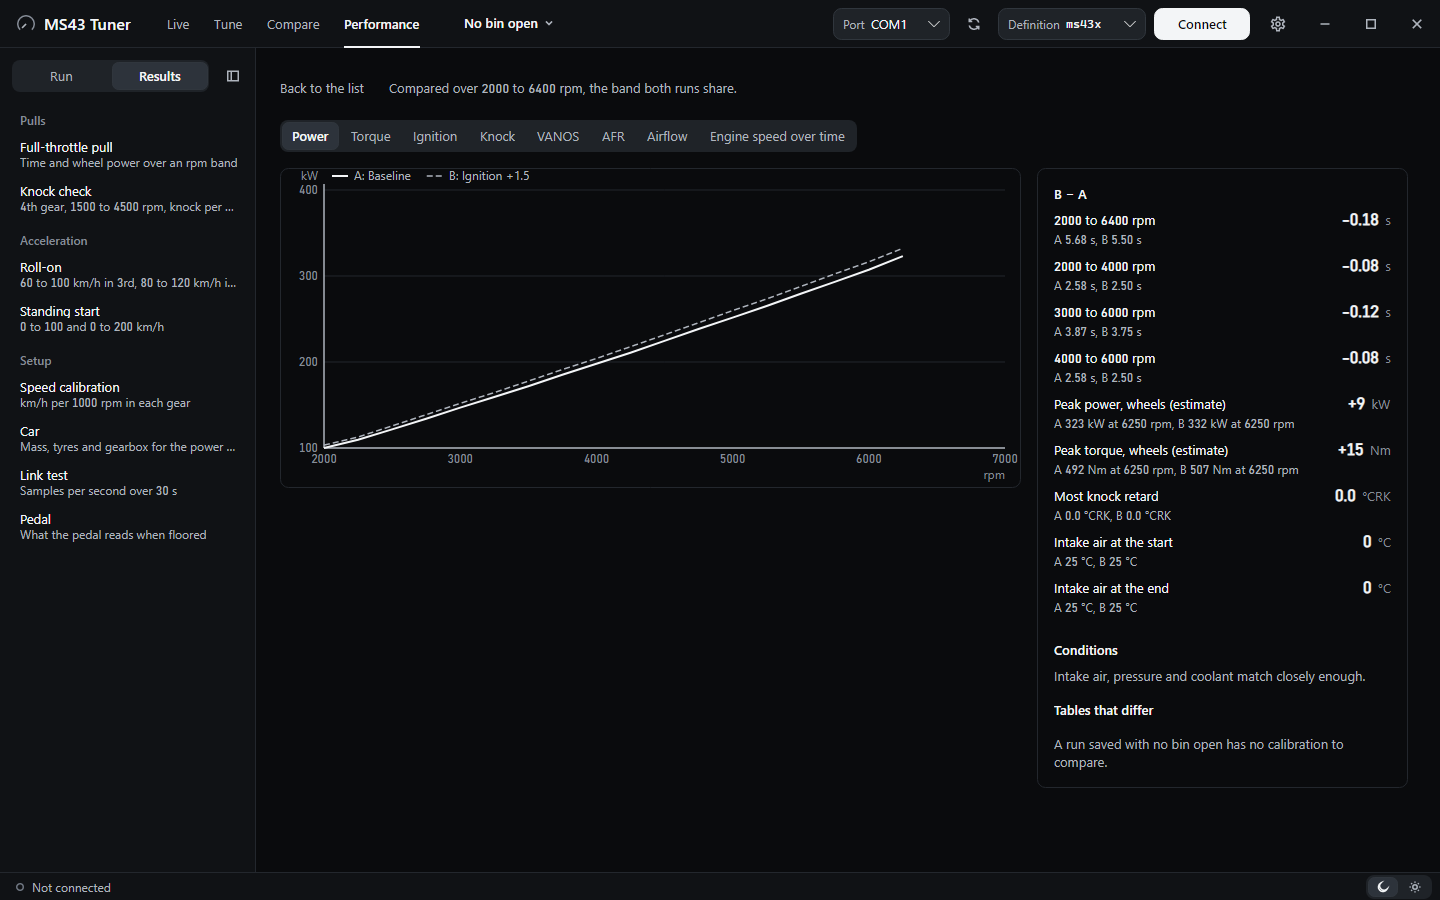
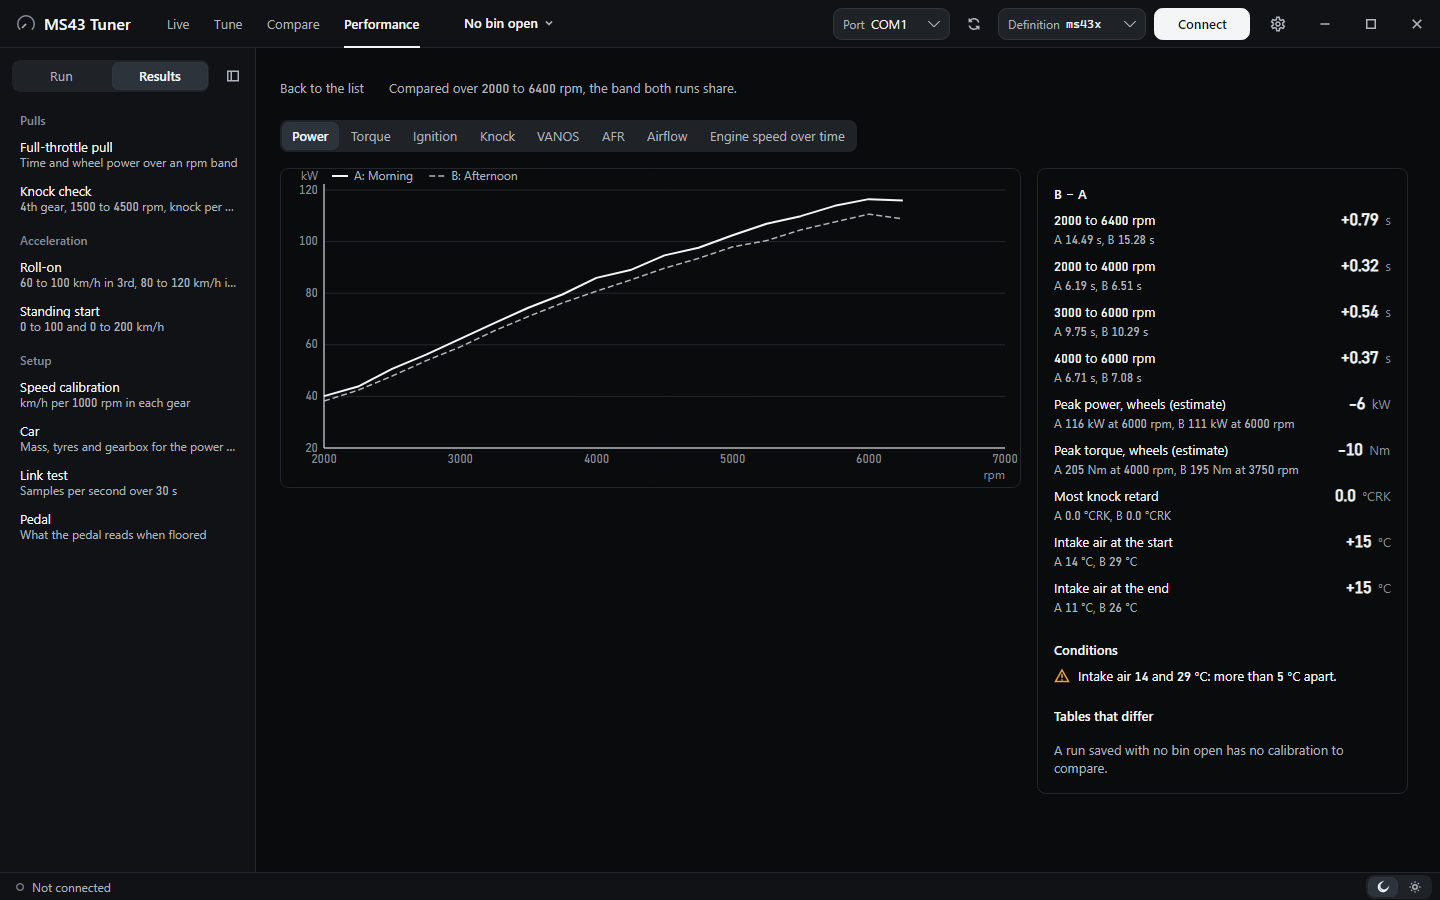
docs(readme): introduce the tuner and label simulated run screenshots

diff --git a/README.md b/README.md
@@ -1,18 +1,29 @@
+<div align="center">
+
+<img src="docs/assets/ms43-tuner.png" width="112" alt="MS43 Tuner icon: a gauge with an orange needle">
+
 # MS43 Tuner
 
-Live logging, map editing, bin compare and road performance tests for the Siemens MS43 ECU in the BMW E46.
+**Live logging, map editing, bin compare and road performance tests for the Siemens MS43 ECU.**
 
-[![CI](https://github.com/raph559/MS43_LOGGER/actions/workflows/ci.yml/badge.svg)](https://github.com/raph559/MS43_LOGGER/actions/workflows/ci.yml)
+A Windows desktop app, with a command-line tool next to it, for BMW's M54B22, M54B25 and M54B30 engines,<br>
+on stock MS430069-family software or on MS43X001, the community firmware from the MS4X project.
+
+[![CI](https://github.com/raph559/MS43_TUNER/actions/workflows/ci.yml/badge.svg)](https://github.com/raph559/MS43_TUNER/actions/workflows/ci.yml)
 [![License: GPL-3.0-only](https://img.shields.io/badge/license-GPL--3.0--only-blue.svg)](LICENSE)
 [![.NET 10](https://img.shields.io/badge/.NET-10-512BD4.svg)](https://dotnet.microsoft.com/)
-[![Platform: Windows](https://img.shields.io/badge/platform-Windows%2010%20%7C%2011%20x64-0078D6.svg)](#requirements)
+[![Platform: Windows](https://img.shields.io/badge/platform-Windows%2010%20%7C%2011%20x64-0078D6.svg)](#what-you-need)
 
-![The Tune tab: the RON98 part-load ignition map as a colour grid, with edit tools above it and a 3D surface preview on the right](docs/screenshots/tune-map.png)
+[What it does](#what-it-does) · [What you need](#what-you-need) · [Install](#install) · [First steps](#first-steps) · [Command line](#command-line-tool) · [Build and test](#build-and-test)
+
+</div>
+
+<br>
+
+<img src="docs/screenshots/tune-map.png" alt="The Tune tab: the RON98 part-load ignition map as a colour grid, with edit tools above it and a 3D surface preview on the right">
 
 > [!WARNING]
 > MS43 Tuner never writes ECU flash. It saves edited bin files on your PC, and you flash them yourself with MS4X Flasher, which also corrects the checksum. Wheel power is an estimate, not a dyno figure. Run performance tests only on a closed road or a track.
-
-MS43 Tuner is a Windows desktop app, with a command-line tool next to it, for E46 cars with the Siemens MS43 engine ECU (M54B22, M54B25, M54B30). It works with stock MS430069-family software and with MS43X001, the community firmware from the MS4X project. It logs live data over DS2 on the K-line, reads and edits bins through TunerPro XDF definitions, compares two bins, and times pulls, roll-ons and standing starts from the same data stream.
 
 ## What it does
 
@@ -20,11 +31,7 @@ The window has four tabs: Live, Tune, Compare and Performance. There are Night a
 
 ### Live
 
-- Connects through a K+DCAN USB cable and polls the MS4X logging command, using the bundled definition for your engine or firmware.
-- Shows the main values as large tiles or dials, a row of pinned channels, and every channel in a list with a sparkline of the last 10, 30 or 60 seconds. Filter the list by name or ID with Ctrl K.
-- Reads the rev limit from the open bin and marks it on the rpm readout.
-- Writes a CSV log, on demand or as soon as you connect. The header shows the measured samples per second.
-- Warns in red while the coolant is cold and in amber until the oil is warm.
+Watch the engine over DS2 on the K-line, and keep a CSV log of it.
 
 <table>
   <tr>
@@ -32,12 +39,25 @@ The window has four tabs: Live, Tune, Compare and Performance. There are Night a
     <td width="50%"><img src="docs/screenshots/live-dials-day.png" alt="Live tab in the Day theme with the main readouts drawn as dials"></td>
   </tr>
   <tr>
-    <td align="center"><sub>Live, Night theme, tiles</sub></td>
-    <td align="center"><sub>Live, Day theme, dials</sub></td>
+    <td align="center"><sub>Night theme, tiles</sub></td>
+    <td align="center"><sub>Day theme, dials</sub></td>
   </tr>
 </table>
 
+- Connects through a K+DCAN USB cable and polls the MS4X logging command, using the bundled definition for your engine or firmware.
+- Shows the main values as large tiles or dials, a row of pinned channels, and every channel in a list with a sparkline of the last 10, 30 or 60 seconds. Filter the list by name or ID with Ctrl K.
+- Reads the rev limit from the open bin and marks it on the rpm readout.
+- Writes a CSV log, on demand or as soon as you connect. The header shows the measured samples per second.
+- Warns in red while the coolant is cold and in amber until the oil is warm.
+
 ### Tune
+
+Open a bin with its TunerPro XDF and edit it, as a grid (the picture at the top of this page) or as a surface.
+
+<p align="center">
+  <img src="docs/screenshots/surface.png" width="72%" alt="The ignition map as an editable 3D surface with rpm, load and angle scales"><br>
+  <sub>The ignition map as a 3D surface</sub>
+</p>
 
 - Opens a 512 KiB bin with a TunerPro XDF, reads the firmware ID from the bin, and remembers which XDF goes with which firmware.
 - Lists every XDF item in a rail by category, with search, recent items, pins and a "Changed only" filter.
@@ -48,23 +68,34 @@ The window has four tabs: Live, Tune, Compare and Performance. There are Night a
 
 ### Compare
 
+Put a second bin next to yours and see every value that differs.
+
+<p align="center">
+  <img src="docs/screenshots/compare.png" width="72%" alt="Compare tab: the difference B minus A for the ignition map, cell by cell, with the items that differ listed on the left"><br>
+  <sub>B − A for the ignition map, in units</sub>
+</p>
+
 - Opens a second bin (B) against the one you are tuning (A) and lists only the items that differ, with how many cells differ in each.
 - Shows B − A in units, raw counts or percent, or either file on its own, with a colour scale for where B is higher or lower.
 - Copies cells or whole items from B into A. The copy is an ordinary edit: undo it, or save A as usual.
 - Lists the bytes that differ outside every XDF item, so nothing is hidden.
 
+### Performance
+
+Time pulls, roll-ons and standing starts from the same data stream.
+
 <table>
   <tr>
-    <td width="50%"><img src="docs/screenshots/surface.png" alt="The ignition map as an editable 3D surface with rpm, load and angle scales"></td>
-    <td width="50%"><img src="docs/screenshots/compare.png" alt="Compare tab: the difference B minus A for the ignition map, cell by cell, with the items that differ listed on the left"></td>
+    <td width="50%"><img src="docs/screenshots/performance-run.png" alt="A third-gear pull in progress at 5005 rpm after 9.9 seconds, against a saved morning run, with knock retard per cylinder and the live ignition, VANOS, AFR target and intake air"></td>
+    <td width="50%"><img src="docs/screenshots/performance-compare.png" alt="Two saved pulls compared: the morning run peaks at 116 kW at the wheels and the afternoon run, with 15 °C warmer intake air, at 111 kW"></td>
   </tr>
   <tr>
-    <td align="center"><sub>Tune, 3D surface</sub></td>
-    <td align="center"><sub>Compare, B − A in units</sub></td>
+    <td align="center"><sub>A pull in progress</sub></td>
+    <td align="center"><sub>Two saved runs compared</sub></td>
   </tr>
 </table>
 
-### Performance
+<sub>Both runs are simulated: a stock M54B25 in 3rd, its rise worked out from BMW's torque figures, with the engine readings following a real car's map and log.</sub>
 
 - Full-throttle pull in 2nd, 3rd or 4th over an rpm band: times across the band, estimated wheel power and torque, knock retard per cylinder, intake air temperature at the start and the end.
 - Knock check in 4th gear, roll-ons from 60 to 100 and 80 to 120 km/h, and standing starts with 0 to 100, 0 to 200 and 100 to 200 km/h times.
@@ -72,97 +103,59 @@ The window has four tabs: Live, Tune, Compare and Performance. There are Night a
 - Red coolant and amber oil warm-up warnings before you floor it.
 - Saves each run with a name and a description. Pick two saved runs to compare them with overlaid power, torque, ignition, knock, VANOS and AFR curves, the difference in each figure, and the conditions side by side. Both runs are recomputed with your current car values, so a change of tyres or mass does not show up as a gain.
 
-<table>
-  <tr>
-    <td width="50%"><img src="docs/screenshots/performance-run.png" alt="A third-gear pull in progress: current rpm, elapsed time, knock retard per cylinder, and the run plotted against a saved baseline"></td>
-    <td width="50%"><img src="docs/screenshots/performance-compare.png" alt="Two saved pulls compared: overlaid power curves and the difference in times, power, torque and knock"></td>
-  </tr>
-  <tr>
-    <td align="center"><sub>Performance, a pull in progress</sub></td>
-    <td align="center"><sub>Performance, two saved runs compared</sub></td>
-  </tr>
-</table>
+## What you need
 
-The Performance screenshots come from a synthetic test run, so their power figures are not from a real car.
+| For | You need |
+|:---|:---|
+| **PC** | Windows 10 or 11, x64 |
+| **Cable** | A K+DCAN USB cable, or another K-line interface that holds 125000 baud reliably, set up as a COM port |
+| **Car** | A BMW with the Siemens MS43 ECU (M54B22, M54B25 or M54B30 engine) |
+| **ECU software** | MS43X001, or stock MS430069-family software with the MS4X extended logging patch: logging uses the MS4X logging command (`0B B0`) |
+| **Flashing** | MS4X Flasher, to flash the bins you edit |
+| **Building** | The .NET 10 SDK, only to build from source |
 
-## Requirements
+MS43 Tuner is developed on one car, an E46 M54B25 running MS43X001. The B22, B25 and B30 logging definitions for stock software come from MS4X; reports from other cars and engines are welcome.
 
-- Windows 10 or 11, x64.
-- A K+DCAN USB cable, or another K-line interface that holds 125000 baud reliably, set up as a COM port.
-- A BMW E46 with the Siemens MS43 ECU (M54B22, M54B25 or M54B30). Logging uses the MS4X logging command (`0B B0`), so the ECU needs MS43X001 or stock MS430069-family software with the MS4X extended logging patch.
-- MS4X Flasher, to flash the bins you edit.
-- To build from source: the .NET 10 SDK.
+## Install
 
-MS43 Tuner is developed on one car, an E46 M54B25 running MS43X001. The B22, B25 and B30 logging definitions for stock software come from MS4X; reports from cars running them are welcome.
+Nothing has been released yet. Releases will appear on the [Releases](https://github.com/raph559/MS43_TUNER/releases) page, each with two zips for win-x64: `MS43Tuner-<version>-win-x64.zip` with the desktop app and `MS43Tuner-CLI-<version>-win-x64.zip` with the command-line tool. Both will be self-contained single-file builds, so you will not need to install .NET: unzip and run `MS43Logger.AvaloniaApp.exe`. The builds are not code-signed, so Windows SmartScreen may ask before the first start.
 
-## Download and install
-
-Nothing has been released yet. Releases will appear on the [Releases](https://github.com/raph559/MS43_LOGGER/releases) page. Each one will have two zips for win-x64: `MS43Tuner-<version>-win-x64.zip` with the desktop app and `MS43Tuner-CLI-<version>-win-x64.zip` with the command-line tool. Both are self-contained single-file builds, so you will not need to install .NET: unzip and run `MS43Logger.AvaloniaApp.exe`. The builds are not code-signed, so Windows SmartScreen may ask before the first start.
-
-Until then, build it from source.
-
-### Build from source
+Until then, build it from source:
 
 ```powershell
-git clone https://github.com/raph559/MS43_LOGGER.git
-cd MS43_LOGGER
+git clone https://github.com/raph559/MS43_TUNER.git
+cd MS43_TUNER
 dotnet build MS43Logger.sln
 dotnet run --project src/MS43Logger.AvaloniaApp
 ```
 
-## Quick start
+## First steps
 
-### Connect and log
+**Connect and log**
 
 1. Plug in the cable and switch the ignition on.
 2. On the Live tab, pick the port and the definition: `b22`, `b25` or `b30` for stock software on that engine, `ms43x` for MS43X001. Click Connect.
 3. If the ECU refuses the faster baud rate while the engine runs, connect first, then start the engine.
 4. Click Write CSV log, or turn on "Start writing the CSV log when connected" in Settings (the gear icon). Logs go to `Documents\MS43 Logs` unless you choose another folder in Settings.
 
-### Open a bin and its XDF
+**Open a bin and its XDF**
 
 1. On the Tune tab, choose Open bin… and pick the 512 KiB file you flash with MS4X Flasher.
 2. The first time, the app asks for the XDF. Later, the XDF you last used for that firmware opens with the bin.
 3. Pick a map, curve or value in the rail, edit it, then Save. Flash the saved bin with MS4X Flasher.
 
-### Compare two bins
+**Compare two bins**
 
 1. With a bin open, go to Compare, choose Open B… and pick the bin to compare with. The open bin is A, and its XDF is used for both files.
 2. Pick an item from the list of differences. Switch between B − A, A and B, and between units, raw and percent.
 3. Use Copy B into A to take values from B, or Edit in Tune to jump to the item.
 
-### Run a pull
+**Run a pull**
 
 1. Go to a closed road or a track, and let the engine warm up until the warnings clear.
 2. In Performance, fill in Car (mass, tyres, gearbox) once, and run Speed calibration for the gears you will use.
 3. Pick Full-throttle pull, the gear and the rpm band, then Arm pull. Floor it once every check is met: the run starts by itself. Lifting off, braking, pressing the clutch or changing gear ends it, marked incomplete.
 4. Save the result with a name and a description. Under Results, tick two runs and click Compare.
-
-## Definitions and credits
-
-The logging definitions in [`definitions/`](definitions) are by the MS4x Dev Team and are embedded in the app with credit:
-
-| File | Variant |
-|---|---|
-| `Siemens_MS43_Extended_Log_v2.9_M54B22.adx` | `b22` |
-| `Siemens_MS43_Extended_Log_v2.9_M54B25.adx` | `b25` |
-| `Siemens_MS43_Extended_Log_v2.9_M54B30.adx` | `b30` |
-| `Siemens_MS43_MS43X001_Logging.adx` | `ms43x` |
-
-These files have no stated license and are not covered by this project's license. Permission from MS4X is being requested, and the files will be removed if MS4X asks. [NOTICE.md](NOTICE.md) has the details and the third-party packages the app uses.
-
-The MS43X001 map definition (the `Siemens_MS43_MS43X001_512K` XDF by the MS4x Dev Team: 1479 tables, 2293 constants, `BASEOFFSET` 0x70000) is not in this repository, because it has no stated license either. Get it from the [MS4X project](https://www.ms4x.net) and open it in the app. Tune and Compare read TunerPro XDF files and are tested with this one. The live cursor's rules ([`definitions/ms43x001_map_use.json`](definitions/ms43x001_map_use.json) and [`definitions/ms43x001_live_inputs.json`](definitions/ms43x001_live_inputs.json)) are written for MS43X001 only; the firmware notes behind them are in [`docs/firmware/map-use`](docs/firmware/map-use).
-
-Bins are never committed. Keep your own bins and XDF out of issues and pull requests.
-
-Sources for the logger:
-
-- [MS4X Logger Definition Files](https://www.ms4x.net/index.php?title=Logger_Definition_Files)
-- [MS4X TunerPro Data Logging](https://www.ms4x.net/index.php?title=TunerPro_Data_Logging)
-- [MS4X Logger.S](https://www.ms4x.net/index.php?title=Logger.S)
-- [handmade0octopus/ds2](https://github.com/handmade0octopus/ds2)
-
-The app is built with [Avalonia](https://avaloniaui.net/) and tested with [xUnit](https://xunit.net/).
 
 ## Command-line tool
 
@@ -191,6 +184,9 @@ MS43Logger.Cli.exe diff A.bin B.bin --xdf Siemens_MS43_MS43X001_512K.xdf
 
 `show` and `diff` warn when the XDF does not match a bin's firmware. When `show` does not find an item, it suggests up to five item names that contain what you typed.
 
+<details>
+<summary>All logging options</summary>
+
 | Option | Meaning |
 |---|---|
 | `--port COMx` | Serial port of the K-line cable. Required unless you only list channels. |
@@ -205,7 +201,9 @@ MS43Logger.Cli.exe diff A.bin B.bin --xdf Siemens_MS43_MS43X001_512K.xdf
 | `--no-console` | Do not print the live line. |
 | `--help` | Show the help text. |
 
-## Building and testing
+</details>
+
+## Build and test
 
 ```powershell
 dotnet build MS43Logger.sln
@@ -222,7 +220,8 @@ powershell -ExecutionPolicy Bypass -File scripts/Publish-Windows.ps1
 
 This publishes the desktop app and the CLI as self-contained single-file win-x64 builds into `artifacts/publish/win-x64/desktop` and `artifacts/publish/win-x64/cli`.
 
-## Project layout
+<details>
+<summary>Project layout</summary>
 
 ```text
 src/MS43Logger.Core/                DS2 session, ADX decoding, XDF reader, bin editing and compare, performance maths
@@ -238,6 +237,34 @@ scripts/                            release packaging and the live-inputs genera
 ```
 
 Settings and saved performance results live in `%AppData%\MS43Tuner`.
+
+</details>
+
+## Definitions and credits
+
+The logging definitions in [`definitions/`](definitions) are by the MS4x Dev Team and are embedded in the app with credit:
+
+| File | Variant |
+|---|---|
+| `Siemens_MS43_Extended_Log_v2.9_M54B22.adx` | `b22` |
+| `Siemens_MS43_Extended_Log_v2.9_M54B25.adx` | `b25` |
+| `Siemens_MS43_Extended_Log_v2.9_M54B30.adx` | `b30` |
+| `Siemens_MS43_MS43X001_Logging.adx` | `ms43x` |
+
+These files have no stated license and are not covered by this project's license. Permission from MS4X is being requested, and the files will be removed if MS4X asks. [NOTICE.md](NOTICE.md) has the details and the third-party packages the app uses.
+
+The MS43X001 map definition (the `Siemens_MS43_MS43X001_512K` XDF by the MS4x Dev Team: 1479 tables, 2293 constants, `BASEOFFSET` 0x70000) is not in this repository, because it has no stated license either. Get it from the [MS4X project](https://www.ms4x.net) and open it in the app. Tune and Compare read TunerPro XDF files and are tested with this one. The live cursor's rules ([`definitions/ms43x001_map_use.json`](definitions/ms43x001_map_use.json) and [`definitions/ms43x001_live_inputs.json`](definitions/ms43x001_live_inputs.json)) are written for MS43X001 only; the firmware notes behind them are in [`docs/firmware/map-use`](docs/firmware/map-use).
+
+Bins are never committed. Keep your own bins and XDF out of issues and pull requests.
+
+Sources for the logger:
+
+- [MS4X Logger Definition Files](https://www.ms4x.net/index.php?title=Logger_Definition_Files)
+- [MS4X TunerPro Data Logging](https://www.ms4x.net/index.php?title=TunerPro_Data_Logging)
+- [MS4X Logger.S](https://www.ms4x.net/index.php?title=Logger.S)
+- [handmade0octopus/ds2](https://github.com/handmade0octopus/ds2)
+
+The app is built with [Avalonia](https://avaloniaui.net/) and tested with [xUnit](https://xunit.net/).
 
 ## Roadmap
 
